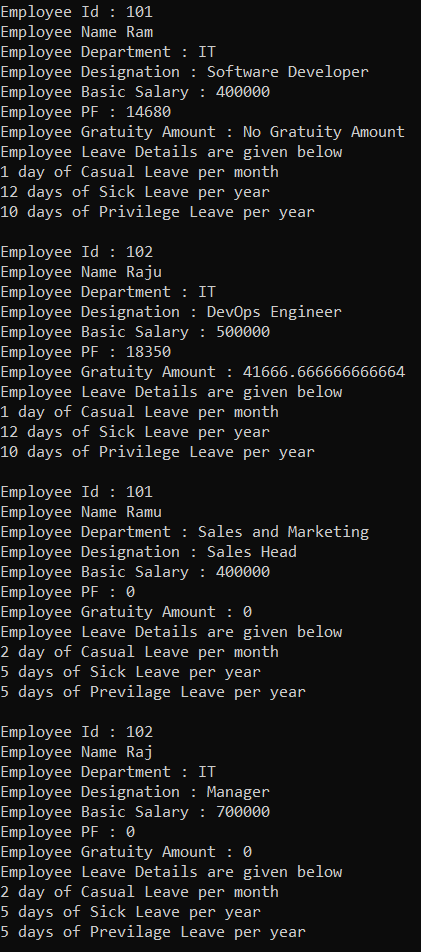
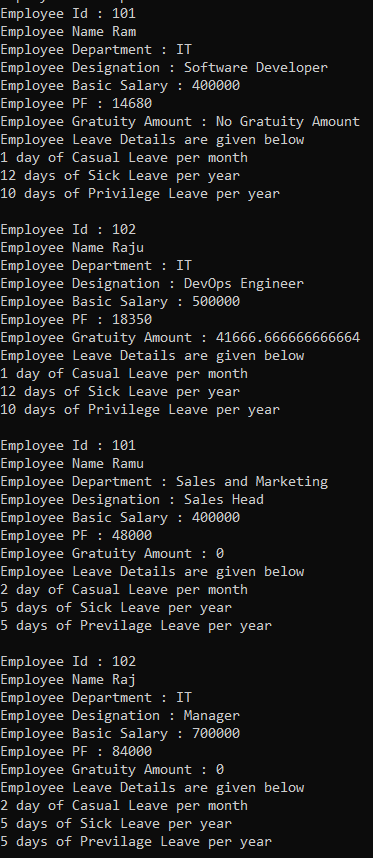
Updated Day 6

diff --git a/Day 6/GovtRuleProjSln/GovtRuleLib/XYZ.cs b/Day 6/GovtRuleProjSln/GovtRuleLib/XYZ.cs
@@ -17,7 +17,7 @@ namespace GovtRuleLib
 
         public double EmployeePF(double basicSalary)
         {
-            return 0 * basicSalary;
+            return (12 * basicSalary)/100;
         }
 
         public double GratuityAmount(float serviceCompleted, double basicSalary)
